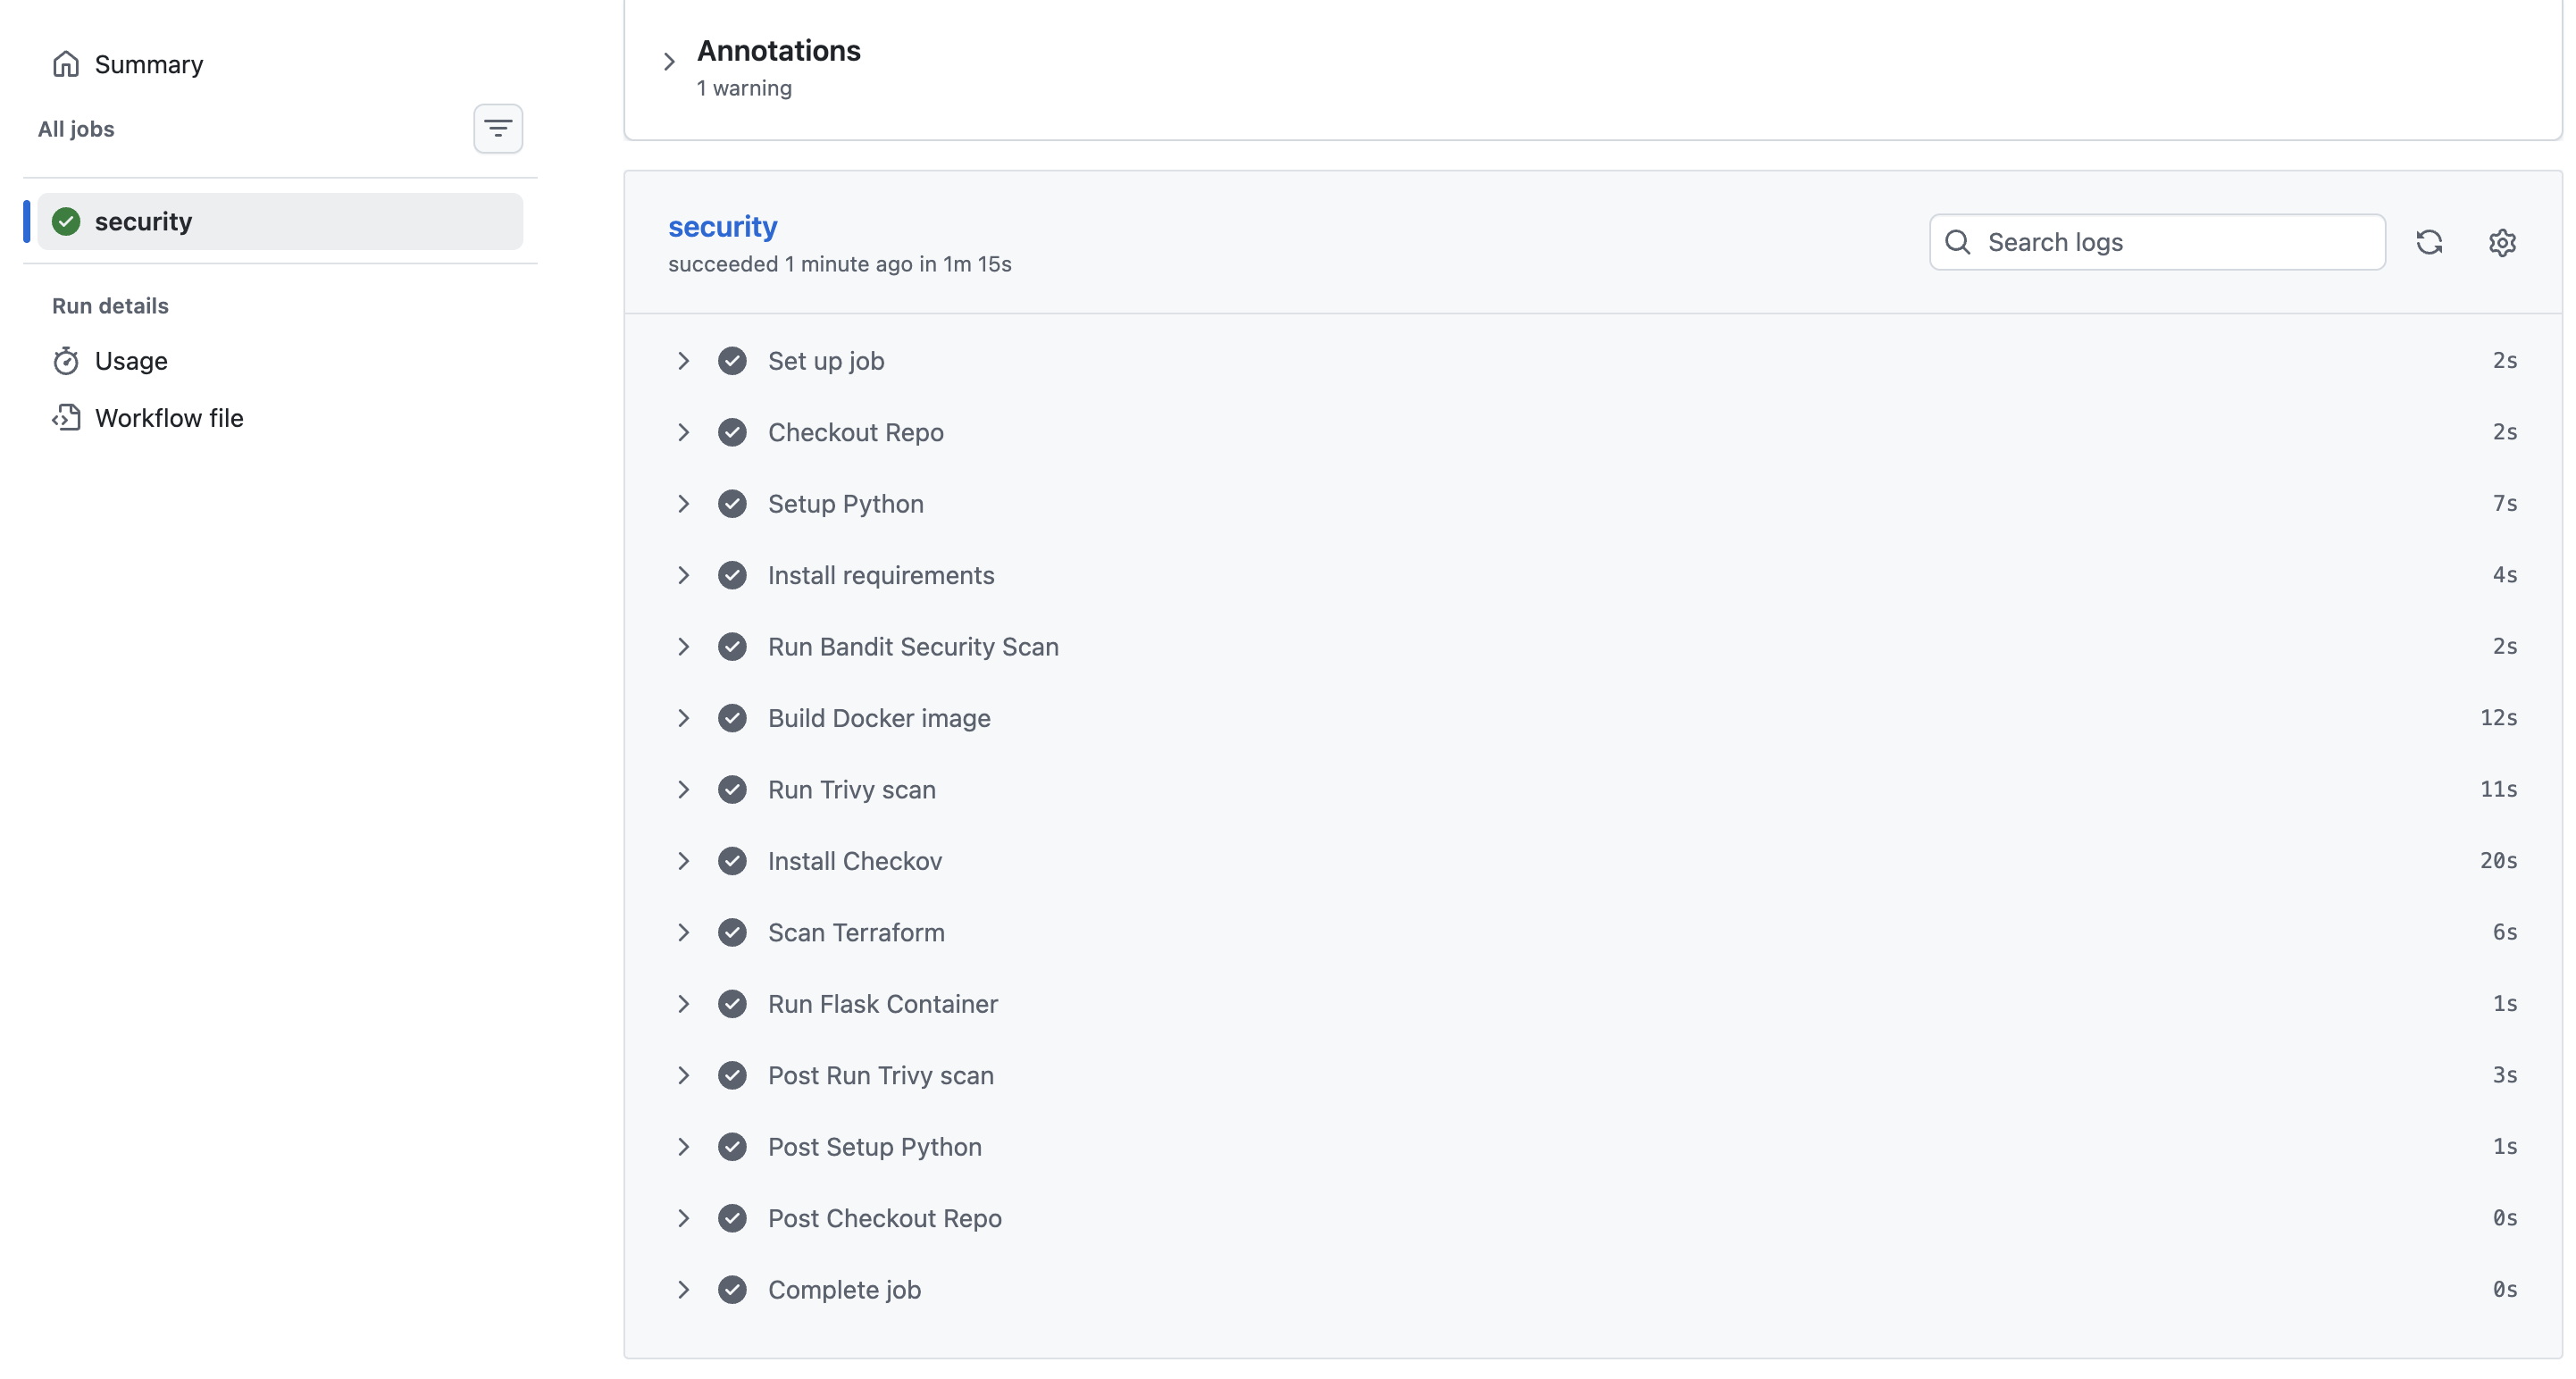
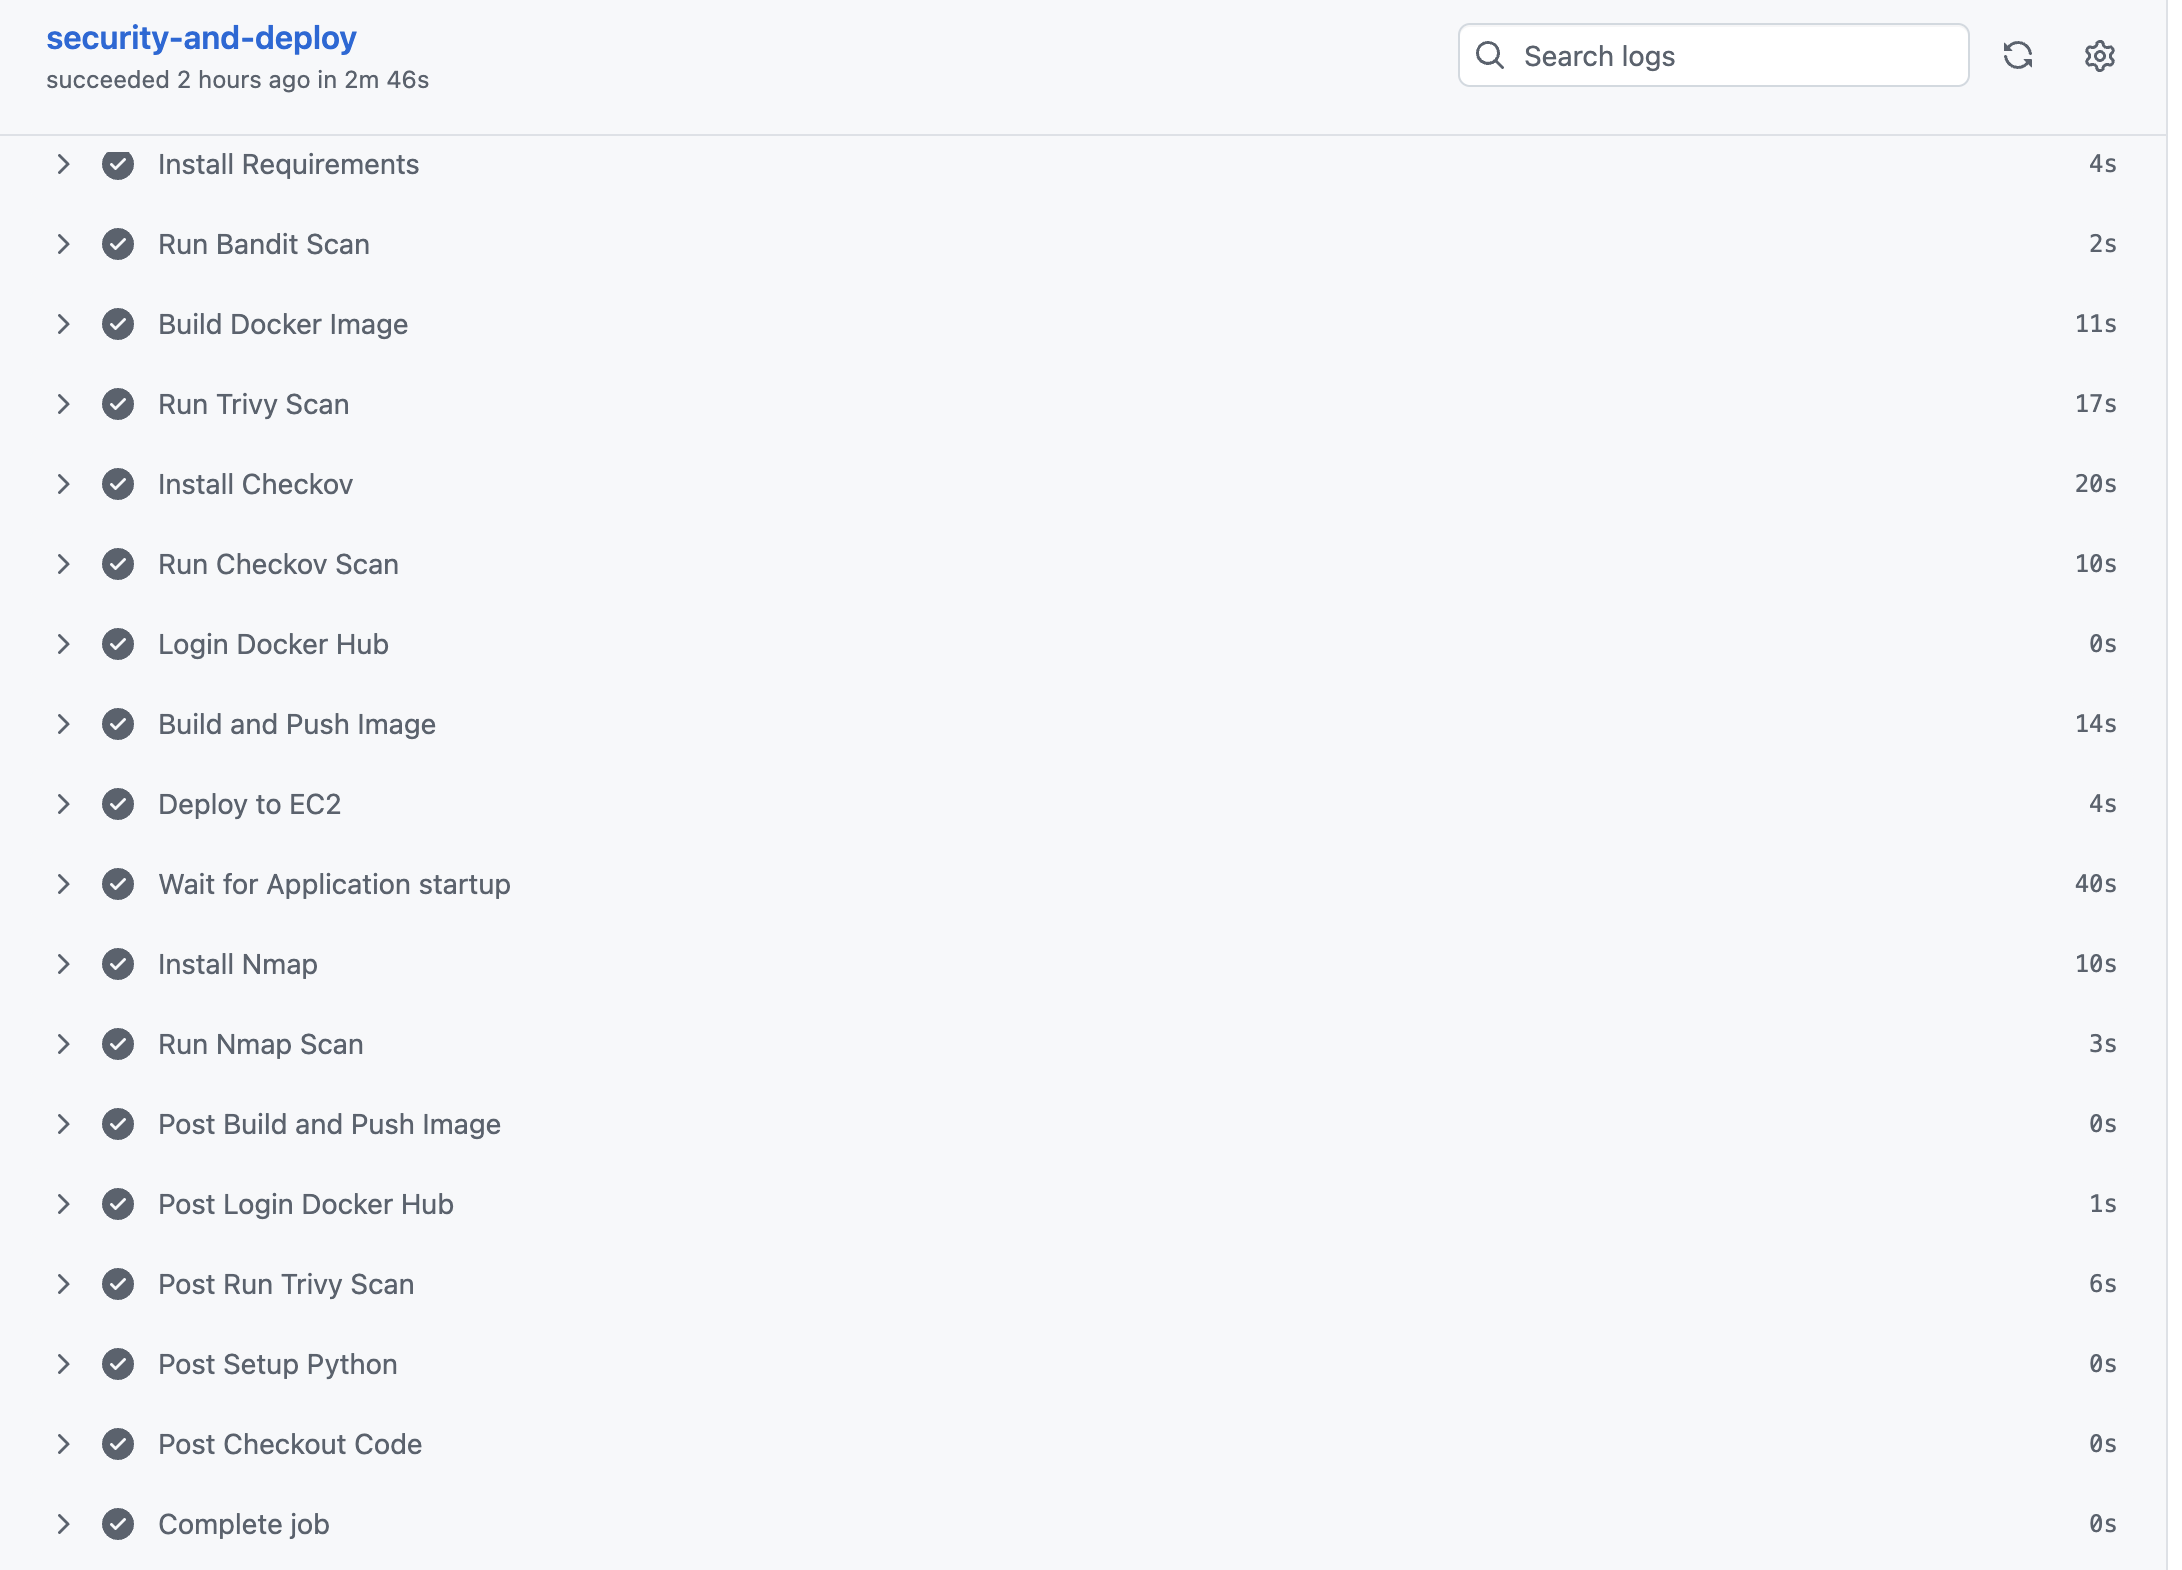
screenshots added

diff --git a/README.md b/README.md
@@ -1,0 +1,164 @@
+# DevSecOps Secure CI/CD Pipeline for Flask E-Commerce Application
+
+## Project Overview
+This project demonstrates a complete DevSecOps CI/CD pipeline for a Flask-based e-commerce web application. It integrates security practices into every stage of the software development lifecycle, from code commit to cloud deployment.
+
+The application is containerized using Docker and automatically deployed to AWS EC2 via GitHub Actions. Security is enforced continuously using industry-standard scanning tools.
+
+## Key Objectives
+- Build a fully automated CI/CD pipeline using GitHub Actions.
+- Integrate DevSecOps practices into every stage of development.
+- Deploy a containerized Flask application on AWS EC2.
+- Perform automated security scanning for code, containers, and infrastructure.
+- Implement Infrastructure as Code using Terraform.
+
+## Project Architecture
+
+
+## Tech Stack
+
+### Application
+- Python
+- Flask
+- SQLite
+- HTML
+- Bootstrap
+
+### DevOps Tools
+- Git
+- GitHub
+- GitHub Actions
+- Docker
+- Docker Hub
+
+### Security Tools
+- Bandit (SAST)
+- Trivy (Container Security Scanning)
+- Checkov (Infrastructure as Code Security)
+- Nmap (Network Security Scanning)
+
+### Cloud & Infrastructure
+- AWS EC2
+- Terraform
+
+## CI/CD Pipeline Workflow
+1. Code Commit
+Developers push code to the GitHub repository, triggering the pipeline.
+
+2. Static Code Analysis (Bandit)
+Scans Python code for:
+- Hardcoded secrets
+- Unsafe functions
+- Common security vulnerabilities
+
+3. Infrastructure Security Scan (Checkov)
+Validates Terraform configuration for:
+- Misconfigured resources
+- Security best practices
+- Cloud compliance issues
+
+4. Container Security Scan (Trivy)
+Analyzes Docker images for:
+- OS vulnerabilities
+- Dependency risks
+- Known CVEs
+
+5. Docker Build
+Builds a secure, containerized version of the Flask application.
+
+6. Docker Hub Push
+Pushes the validated image to Docker Hub for deployment.
+
+7. Automated Deployment
+GitHub Actions deploys the container to an AWS EC2 instance via SSH.
+
+8. Security Verification (Nmap)
+Performs network scanning to verify:
+- Open ports
+- Exposed services
+- Deployment security posture
+
+## Application Features
+- User registration and authentication
+- Secure login system with password hashing
+- Product listing page
+- Shopping cart functionality
+- Session management
+- Dockerized deployment
+- Fully automated CI/CD pipeline
+- Infrastructure as Code using Terraform
+
+## Security Implementation
+
+### Bandit (SAST)
+Detects insecure Python coding patterns and potential vulnerabilities early in development.
+
+### Trivy
+Performs deep scanning of Docker images for:
+- Vulnerable packages
+- OS-level security issues
+- Dependency vulnerabilities
+
+### Checkov
+Ensures Terraform configurations follow security best practices for AWS infrastructure.
+
+### Nmap
+Used post-deployment to verify exposed services and validate network security posture.
+
+## Infrastructure as Code (Terraform)
+Provisioned resources include:
+- AWS EC2 Instance
+- Security Groups
+- Networking Configuration
+
+### Common Commands
+terraform init
+terraform validate
+terraform plan
+terraform apply
+
+## Docker Workflow
+
+### Build Image
+docker build -t flask-app .
+
+### Run Container
+docker run -d -p 5001:5001 flask-app
+
+### Push to Docker Hub
+docker tag flask-app yojana20/flask-shop:latest
+docker push yojana20/flask-shop:latest
+
+## GitHub Actions Pipeline
+On every push, the pipeline automatically:
+1. Installs dependencies
+2. Runs Bandit scan
+3. Runs Checkov scan
+4. Runs Trivy scan
+5. Builds Docker image
+6. Pushes image to Docker Hub
+7. Deploys to AWS EC2
+8. Executes post-deployment security validation
+
+## Learning Outcomes
+This project helped strengthen skills in:
+- Full-stack Flask development
+- Docker containerization
+- CI/CD pipeline automation using GitHub Actions
+- DevSecOps practices and secure SDLC
+- AWS EC2 deployment and cloud networking
+- Infrastructure as Code using Terraform
+- Security scanning and vulnerability management
+
+## Future Enhancements
+- Implement HTTPS using Nginx reverse proxy
+- Integrate AWS RDS for production-grade database
+- Kubernetes-based deployment (EKS)
+- SonarQube for advanced code quality analysis
+- OWASP ZAP for dynamic security testing
+- Monitoring with Prometheus and Grafana
+
+## Author
+Yojana Gangurde
+DevSecOps | Cloud | Cybersecurity Enthusiast
+GitHub: https://github.com/yojanagangurde-cloud-engineer/